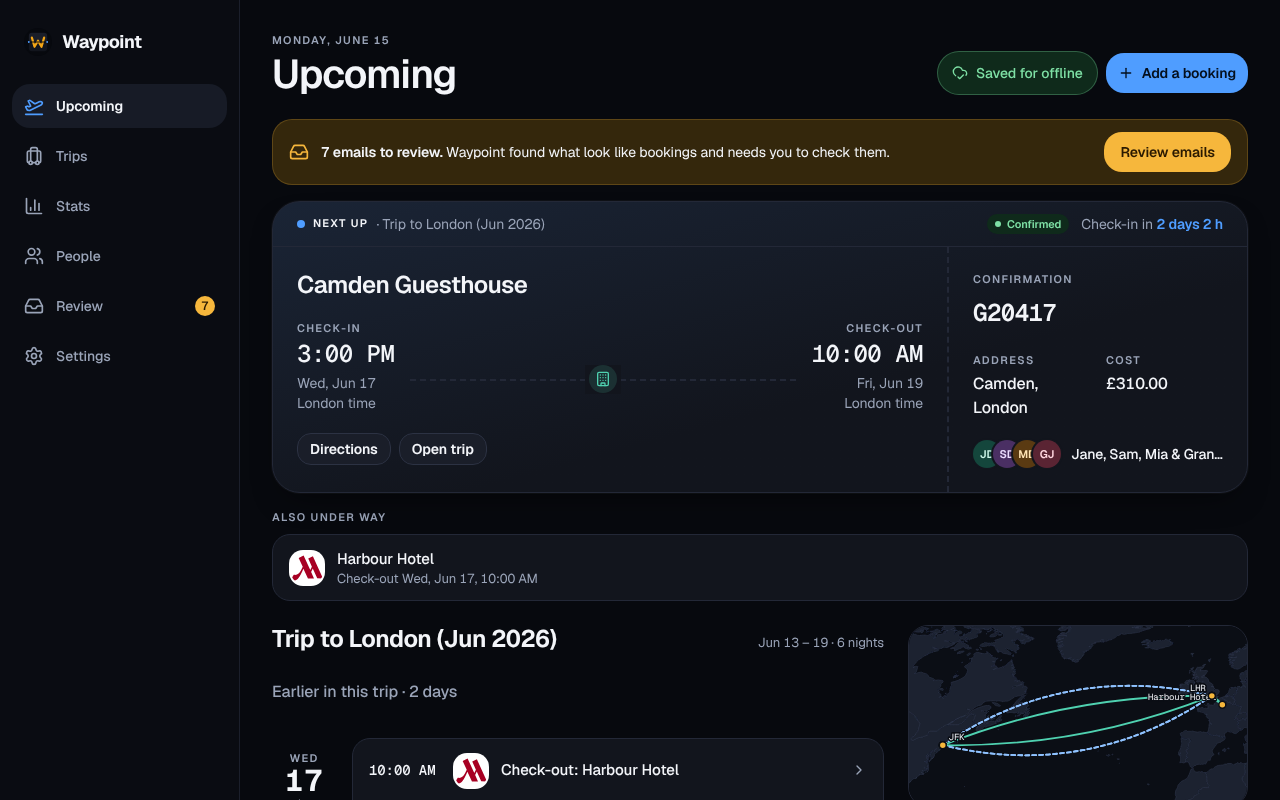
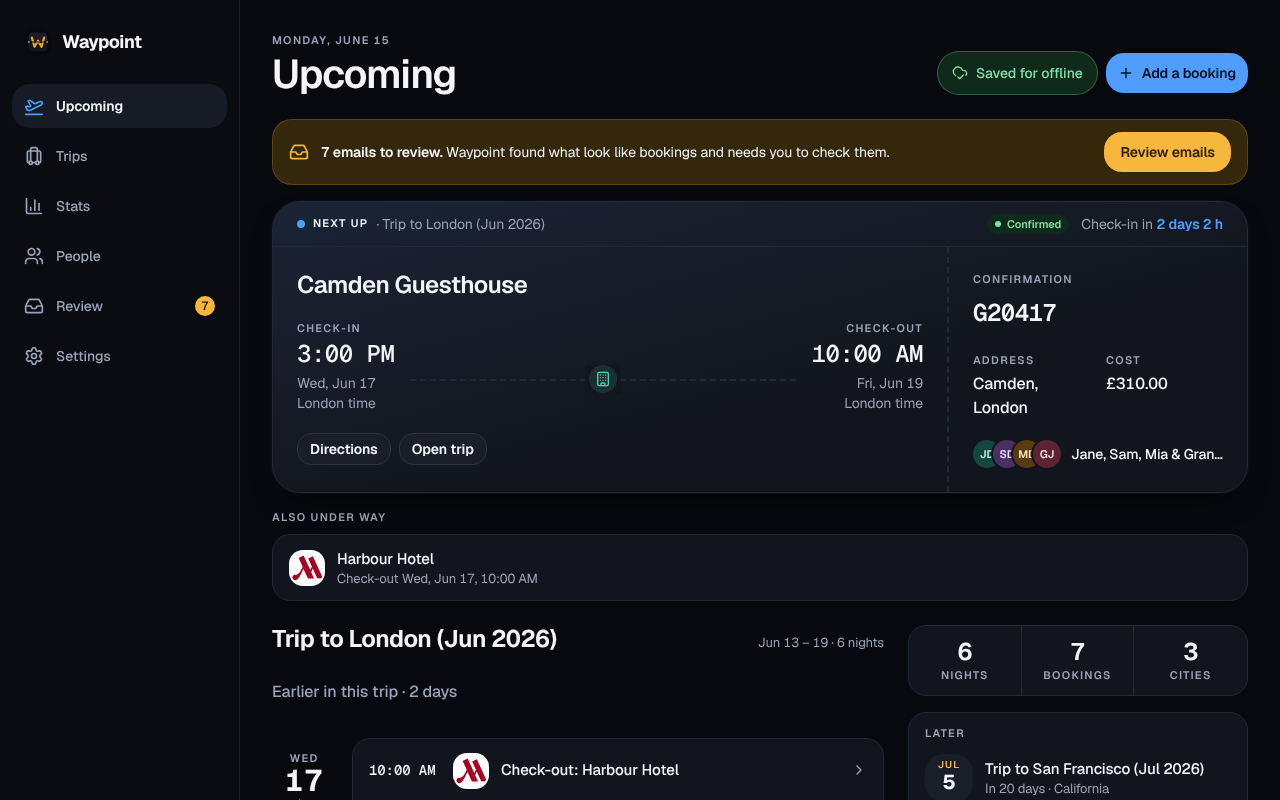
Upcoming: remove the route map from the side column (#446)

Changed region(s): [[0.6875, 0.7812, 1.0, 1.0]]

diff --git a/frontend/src/pages/Upcoming.svelte.test.ts b/frontend/src/pages/Upcoming.svelte.test.ts
@@ -761,16 +761,6 @@ describe("Upcoming side column", () => {
   const placesCalls = () => vi.mocked(api).mock.calls.map(([path]) => path as string).filter((p) => p.startsWith("/api/trips/"));
   const withPlaces = (path: string) => (path === "/api/trips/1/places" ? places : undefined);
 
-  it("draws the featured trip’s route small, with a description built from its legs, and links it to the trip", async () => {
-    at("2026-11-20T09:00:00-05:00");
-    serveWith([london], withPlaces);
-    render(Upcoming);
-    const map = await screen.findByRole("img", { name: "Route map: New York to London, flight back to New York" });
-    expect(map.closest("a")).toHaveAttribute("href", "#trip/1");
-    expect(map.querySelector('[data-leg="flight"]')).toHaveAttribute("stroke-dasharray");
-    expect(map.querySelector('[data-stop="New York"] text')).toHaveTextContent("JFK");
-  });
-
   it("counts nights, live bookings and distinct cities", async () => {
     at("2026-11-20T09:00:00-05:00");
     const cancelled = segment({ id: 9, kind: "hotel", status: "cancelled", origin: "Gone Inn", destination: "Paris", start_local: "2026-11-21T15:00", end_local: "2026-11-22T10:00" });
@@ -786,7 +776,8 @@ describe("Upcoming side column", () => {
     at("2026-11-20T09:00:00-05:00");
     serveWith([london], withPlaces);
     render(Upcoming);
-    await screen.findByRole("img", { name: /^Route map/ });
+    await waitFor(() => expect(placesCalls()).toEqual(["/api/trips/1/places"]));
+    await vi.advanceTimersByTimeAsync(0);
     expect(screen.getByTestId("trip-totals").children[2]).toHaveTextContent("Cities2");
   });
 
@@ -816,49 +807,48 @@ describe("Upcoming side column", () => {
     expect(screen.queryByRole("link", { name: "All trips" })).toBeNull();
   });
 
-  it("leaves the map out, without an error, when the places request fails, and keeps the totals", async () => {
+  it("keeps the totals, without an error, when the places request fails", async () => {
     at("2026-11-20T09:00:00-05:00");
     serveWith([london], (path) => { if (path === "/api/trips/1/places") throw new Error("offline"); return undefined; });
     render(Upcoming);
     await screen.findByTestId("trip-totals");
     await waitFor(() => expect(placesCalls()).toEqual(["/api/trips/1/places"]));
     await vi.advanceTimersByTimeAsync(0);
-    expect(screen.queryByRole("img", { name: /^Route map/ })).toBeNull();
     expect(screen.queryByRole("alert")).toBeNull();
     expect(screen.getByTestId("trip-totals")).toBeInTheDocument();
   });
 
-  it("keeps the map on screen while the same trip’s places load again", async () => {
+  it("keeps the city count while the same trip’s places load again", async () => {
     at("2026-11-20T09:00:00-05:00");
     let held = false;
     serveWith([london], (path) => (path === "/api/trips/1/places" ? (held ? new Promise(() => {}) : places) : undefined));
     render(Upcoming);
-    await screen.findByRole("img", { name: /^Route map/ });
+    await screen.findByTestId("trip-totals");
+    await waitFor(() => expect(screen.getByTestId("trip-totals").children[2]).toHaveTextContent("Cities2"));
     held = true;
     viewport.phone = true;
     await vi.advanceTimersByTimeAsync(0);
     viewport.phone = false;
     await vi.advanceTimersByTimeAsync(0);
     await waitFor(() => expect(placesCalls().length).toBeGreaterThan(1));
-    expect(screen.getByRole("img", { name: /^Route map/ })).toBeInTheDocument();
+    expect(screen.getByTestId("trip-totals").children[2]).toHaveTextContent("Cities2");
   });
 
-  it("leaves the map out when the places reply is malformed", async () => {
+  it("keeps the page when the places reply is malformed", async () => {
     at("2026-11-20T09:00:00-05:00");
     serveWith([london], (path) => (path === "/api/trips/1/places" ? { trips: [] } : undefined));
     render(Upcoming);
     await screen.findByTestId("trip-totals");
     await vi.advanceTimersByTimeAsync(0);
-    expect(screen.queryByRole("img", { name: /^Route map/ })).toBeNull();
+    expect(screen.getByTestId("trip-totals")).toBeInTheDocument();
   });
 
-  it("leaves the map out, and keeps the page, when the places reply lacks a collection the route needs", async () => {
+  it("keeps the page when the places reply lacks a collection", async () => {
     at("2026-11-20T09:00:00-05:00");
     serveWith([london], (path) => (path === "/api/trips/1/places" ? { ...places, stays: undefined } : undefined));
     render(Upcoming);
     await screen.findByTestId("trip-totals");
     await vi.advanceTimersByTimeAsync(0);
-    expect(screen.queryByRole("img", { name: /^Route map/ })).toBeNull();
     expect(screen.getByRole("heading", { name: "Trip to London" })).toBeInTheDocument();
   });
 
@@ -880,13 +870,13 @@ describe("Upcoming side column", () => {
     const outside = vi.spyOn(globalThis, "fetch");
     serveWith([london, lisbon], withPlaces);
     render(Upcoming);
-    await screen.findByRole("img", { name: /^Route map/ });
-    expect(placesCalls()).toEqual(["/api/trips/1/places"]);
+    await screen.findByTestId("trip-totals");
+    await waitFor(() => expect(placesCalls()).toEqual(["/api/trips/1/places"]));
     expect(outside).not.toHaveBeenCalled();
     outside.mockRestore();
   });
 
-  it("shows only the Later tiles on a phone, with no map, no totals and no places request", async () => {
+  it("shows only the Later tiles on a phone, with no totals and no places request", async () => {
     viewport.phone = true;
     at("2026-11-20T09:00:00-05:00");
     serveWith([london, lisbon, porto], withPlaces);
@@ -899,7 +889,6 @@ describe("Upcoming side column", () => {
     expect(tiles[0]).toHaveTextContent("In 40 days");
     expect(tiles[0]).not.toHaveTextContent("Lisbon in winter · ");
     expect(screen.queryByTestId("trip-totals")).toBeNull();
-    expect(screen.queryByTestId("route-map")).toBeNull();
     expect(placesCalls()).toEqual([]);
     viewport.phone = false;
   });

diff --git a/frontend/src/pages/Upcoming.svelte b/frontend/src/pages/Upcoming.svelte
@@ -13,8 +13,6 @@
   import { flightStatus, loadFlightStatus, statusFor } from "$lib/flightstatus.svelte";
   import OfflineStatus from "$lib/components/OfflineStatus.svelte";
   import PassCard from "$lib/components/PassCard.svelte";
-  import RouteMapCard from "$lib/components/RouteMapCard.svelte";
-  import { NO_ROADS, stopsOf } from "$lib/route-replay";
   import { dateTile, usablePlaces, laterLine, laterTrips, startsIn, tripTotals } from "$lib/side-column";
   import { type Day, type DayItem, dayIn, dayLabel, dayParts, END_WORD, endAt, featuredTrip, flightEvidence, headline, nextUp, nightsLabel, rangeLabel, startAt, subline, timesDiffer, todayLabel, tripDays, untimed, upcomingTitle, viewerZone } from "$lib/trips";
   import KindTile from "$lib/components/KindTile.svelte";
@@ -103,7 +101,6 @@
   const featuredId = $derived(featured?.id ?? null);
   const later = $derived(trips && featured ? laterTrips(trips, featured, today) : []);
   let places = $state<TripPlaces | null>(null);
-  const stops = $derived(featured && places ? stopsOf(featured, places) : []);
   const totals = $derived(featured ? tripTotals(featured, places) : null);
   let placesRequest = 0;
   let placesFor: number | null = null;
@@ -321,7 +318,6 @@
         </div>
         <aside class="flex min-w-0 flex-col gap-4" aria-label="Trip summary" data-testid="side-column">
           {#if !viewport.phone}
-            {#if stops.length >= 2}<RouteMapCard tripId={featured.id} {stops} roads={places?.roads ?? NO_ROADS} />{/if}
             {#if totals}
               <dl class="grid grid-cols-3 divide-x divide-border overflow-hidden rounded-[18px] border border-border bg-surface-1 text-center" data-testid="trip-totals">
                 <div class="flex flex-col-reverse px-2 py-3"><dt class="eyebrow">{totals.nights === 1 ? "Night" : "Nights"}</dt><dd class="text-title">{totals.nights}</dd></div>

diff --git a/frontend/src/lib/side-column.ts b/frontend/src/lib/side-column.ts
@@ -1,5 +1,4 @@
 import type { Segment, Trip, TripPlaces } from "./api-types";
-import type { Stop } from "./route-replay";
 import { daysBetween, dayParts, placeOf, splitTrips } from "./trips";
 
 const AIRPORT_CODE = /^[A-Za-z]{3}$/;
@@ -66,16 +65,3 @@ export const usablePlaces = (found: unknown): found is TripPlaces => {
   return !!p && Array.isArray(p.airports) && Array.isArray(p.cities) && Array.isArray(p.stays)
     && Array.isArray(p.roads?.legs) && Array.isArray(p.roads?.interstates) && Array.isArray(p.boundaries);
 };
-
-const VERB: Partial<Record<NonNullable<Stop["via"]>, string>> = { flight: "flight", train: "train", cruise: "cruise" };
-
-export function routeDescription(stops: Stop[]): string {
-  const first = stops[0];
-  if (!first) return "Route map";
-  const legs = stops.slice(1).map((s, i) => {
-    const target = i > 0 && s.city.toLowerCase() === first.city.toLowerCase() ? `back to ${s.city}` : `to ${s.city}`;
-    if (i === 0) return `${first.city} ${target}`;
-    return `${(s.via && VERB[s.via]) ?? "on"} ${target}`;
-  });
-  return `Route map: ${legs.join(", ")}`;
-}

diff --git a/docs/src/content/docs/start/trips.md b/docs/src/content/docs/start/trips.md
@@ -13,7 +13,7 @@ A **trip** is a journey. It holds **bookings** (segments): one flight leg, hotel
 
 **Upcoming** leads with a pass card for what is next: a flight, train or cruise that is under way, otherwise whatever starts soonest. The card shows the airline and flight number, the airports with the time at each in that airport’s own zone (a stay, car or parking booking shows its place and its two times), the confirmation code (tap to copy), the terminal, gate, seats and cabin, and who is travelling. Its top line counts down from the booked times (“Check-in opens in …”, “Departs in …”, “Under way”) or, with [live flight status](/Waypoint/start/flight-status/) on, shows the airline’s latest word: delayed, departed, landed, cancelled or diverted. Under it are the actions: **Check in** or **Open in app**, **Directions**, **Call**, **Show QR code** for a parking booking, and **Open trip**. A stay, rental car or parking booking you are in the middle of never pushes a departure off the card; it is listed under **Also under way**.
 
-Below the card, that trip is laid out day by day, each booking at its local time. While you travel, the days already past fold under **Earlier in this trip**. On a wide window a side column shows a small route map of the trip, its totals (nights, bookings, cities) and **Later**, every other trip still to come; on a phone, **Later** is a row of tiles under the list. When emails are waiting in Review, a banner says how many, and only how many.
+Below the card, that trip is laid out day by day, each booking at its local time. While you travel, the days already past fold under **Earlier in this trip**. On a wide window a side column shows the trip’s totals (nights, bookings, cities) and **Later**, every other trip still to come; on a phone, **Later** is a row of tiles under the list. When emails are waiting in Review, a banner says how many, and only how many.
 
 With no trips yet, Upcoming says what to do next: **Connect Gmail**, **Add a booking**, and a short setup checklist that disappears with your first trip.
 
